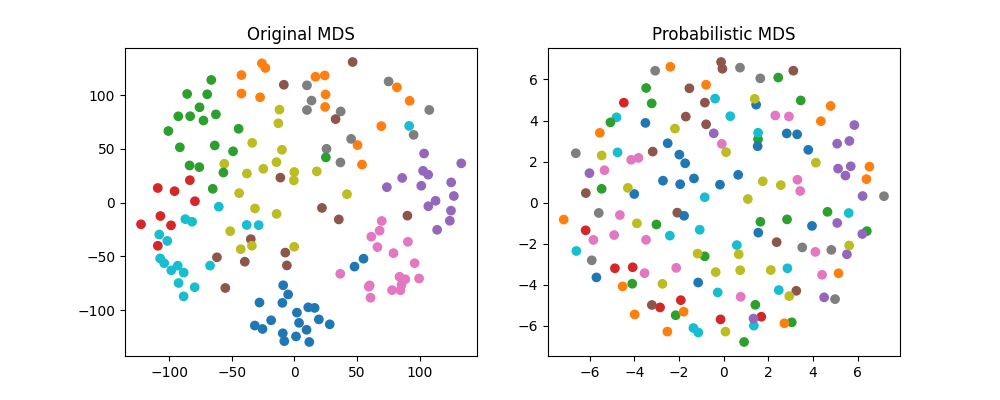
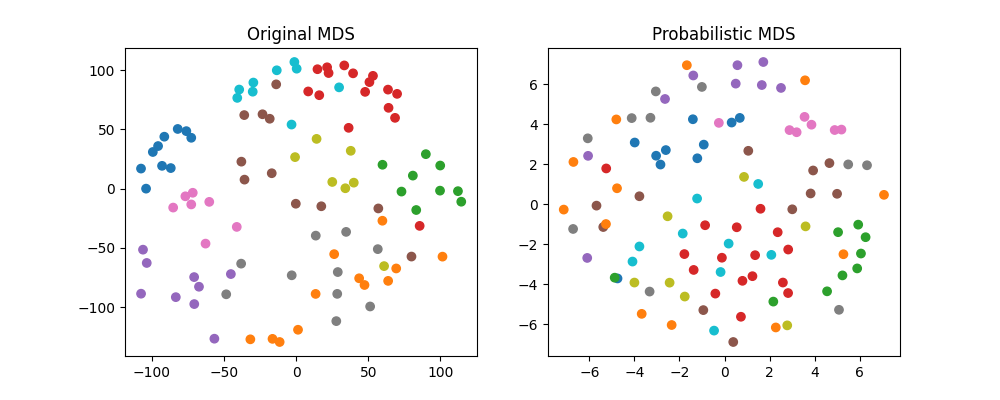
W.I.P test incomplete data

diff --git a/run_pmds.py b/run_pmds.py
@@ -1,3 +1,6 @@
+# import numpy as np
+import random
+from itertools import combinations
 from matplotlib import pyplot as plt
 import mlflow
 
@@ -12,8 +15,19 @@ from pmds import pmds
 
 
 def run_pdms(D, N, args, labels=None):
+    # pack pair indices with distances
+    all_pairs = list(combinations(range(N), 2))
+    assert len(D) == len(all_pairs)
+    dists_with_indices = list(zip(D, all_pairs))
+    n_pairs = len(dists_with_indices)
+
+    # create non-complete data: sample from pairwise distances
+    percent = 0.5
+    p_dists = random.sample(dists_with_indices, k=int(percent * n_pairs))
+    print(f"[DEBUG] n_pairs={n_pairs}, incomplete data {len(p_dists)}")
+
     Z, Z_var, losses = pmds(
-        D,
+        p_dists,
         n_samples=N,
         n_components=args.n_components,
         batch_size=args.batch_size,
